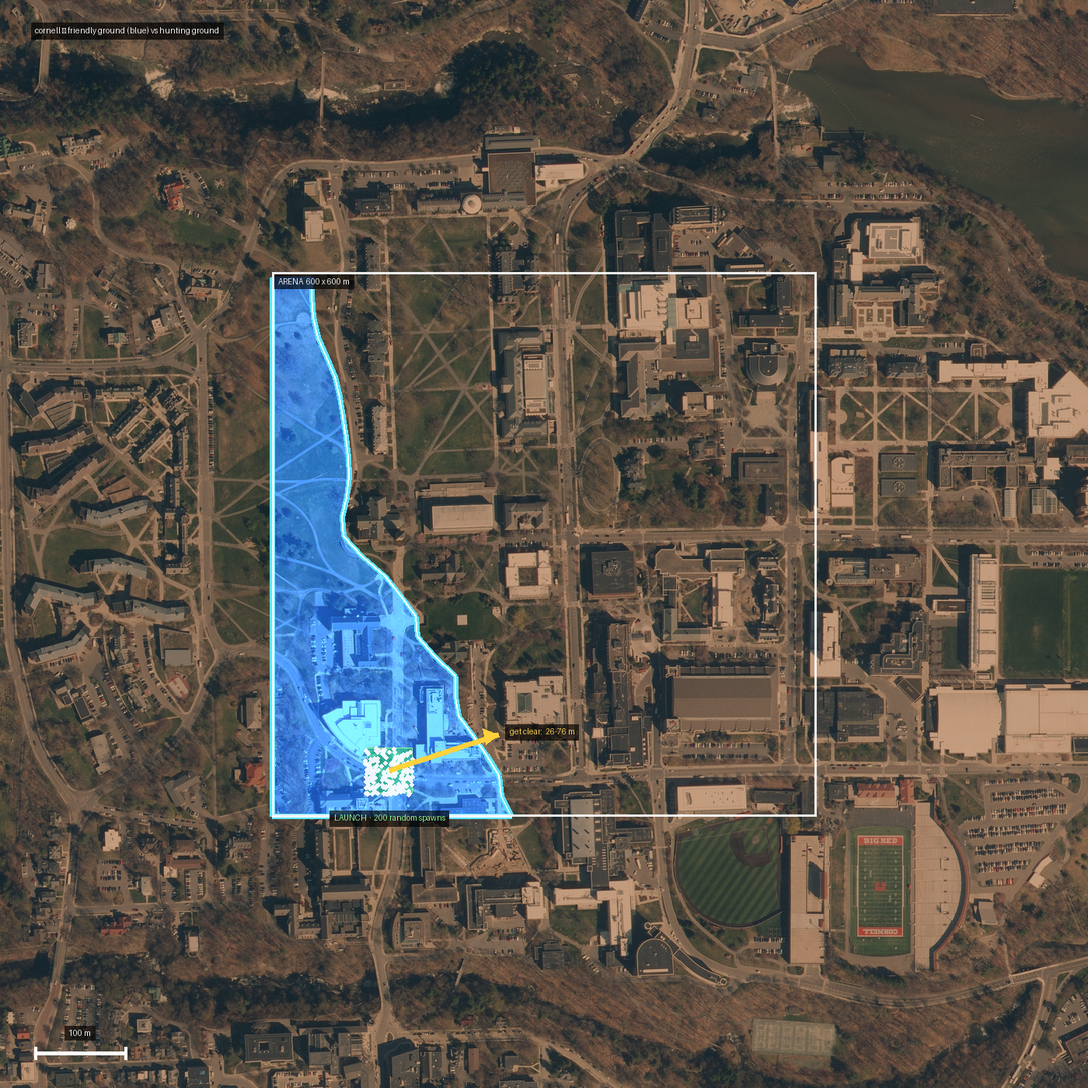
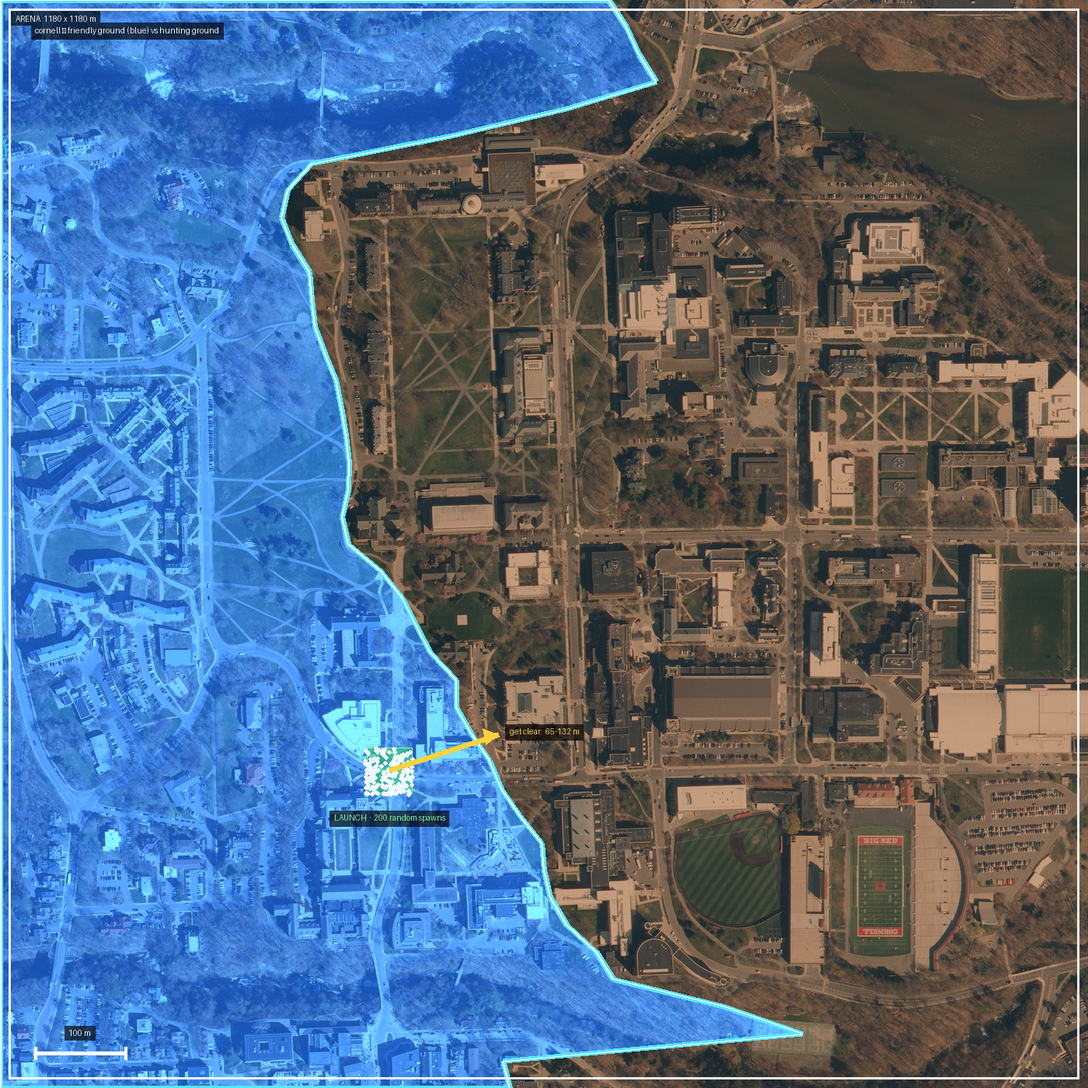
Play the whole site: the slope bisects it
The arena was a 600 m box inherited from the search task while the Cornell
raster is 1200 m square, so three quarters of the world was unreachable. The
arena is now the terrain's own edge (arena_half 590 + a 10 m margin lands the
hard limit exactly on the raster boundary), and the friendly/hunting split is
the slope contour traced across every row of the site rather than clipped to
the old box: 42% friendly below the break, 58% campus above it, and the line
runs east along both gorge floors because those really are below the slope.

Four times the area needs the rest to follow: 12 forklifts instead of 6 keeps
the density, and a 90 s episode is ~1200 m of path, enough to cross the site.
Clearing friendly ground from the pad is now 65 to 132 m rather than 26 to 76.

diff --git a/vesper/lab/chase_task.py b/vesper/lab/chase_task.py
@@ -47,8 +47,11 @@ from vesper.lab.frames import PROPRIO_DIM, camera_axis, proprio, tilt_from_quat,
 
 @dataclass
 class ChaseCfg:
-    n_targets: int = 6                 # forklifts on the site, shared by every drone
-    arena_half: float = 300.0          # square about the world centre the episode lives in
+    n_targets: int = 12                # forklifts on the site, shared by every drone
+    # The whole site, not a box inside it: the Cornell raster is 1200 m square,
+    # and with oob_margin the hard limit lands exactly on its edge, so the drone
+    # is bounded by the terrain rather than by an invisible wall inside it.
+    arena_half: float = 590.0
 
     # --- drone spawn ---
     spawn_alt_min: float = 25.0        # above local ground (m)
@@ -69,7 +72,7 @@ class ChaseCfg:
     clear_min: float = 6.0             # clearance below which the shaping penalty starts (m)
     tilt_limit: float = 1.4
     ceiling: float = 150.0
-    oob_margin: float = 40.0
+    oob_margin: float = 10.0
 
     # --- reward ---
     # Ordering, best to worst: touch early > touch late > see one > fly around

diff --git a/scripts/train_chase.py b/scripts/train_chase.py
@@ -26,13 +26,13 @@ parser = argparse.ArgumentParser()
 parser.add_argument("--num_envs", type=int, default=128)
 parser.add_argument("--iters", type=int, default=3000)
 parser.add_argument("--horizon", type=int, default=32)
-parser.add_argument("--targets", type=int, default=6)
-parser.add_argument("--arena", type=float, default=300.0)
+parser.add_argument("--targets", type=int, default=12)
+parser.add_argument("--arena", type=float, default=590.0)
 parser.add_argument("--arena_start", type=float, default=None,
                     help="curriculum: begin here and grow to --arena over --arena_iters, so the "
                          "first touches are found in a small box")
 parser.add_argument("--arena_iters", type=int, default=800)
-parser.add_argument("--episode_s", type=float, default=60.0)
+parser.add_argument("--episode_s", type=float, default=90.0)
 parser.add_argument("--res", type=int, default=96)
 parser.add_argument("--seed", type=int, default=0)
 parser.add_argument("--lr", type=float, default=3e-4)

diff --git a/vesper/lab/chase_env.py b/vesper/lab/chase_env.py
@@ -57,7 +57,7 @@ CRASH_FORCE_N = 2.0          # contact force with anything else that counts as a
 
 @configclass
 class ChaseEnvCfg(VesperQuadEnvCfg):
-    episode_length_s = 60.0
+    episode_length_s = 90.0          # ~1200 m of path: enough to cross the site
     decimation = 4                                  # 25 Hz guidance over a 100 Hz inner loop
     sim: SimulationCfg = SimulationCfg(dt=1 / 100, render_interval=4)
     action_space = 3                                # body-frame forward / left / up
@@ -68,7 +68,7 @@ class ChaseEnvCfg(VesperQuadEnvCfg):
     world_map: str = CORNELL_MAP
     zones: str | None = None                        # zones.json; default: beside the map or <site>_zones.json
     vehicle_model: str | None = None
-    n_targets: int = 6
+    n_targets: int = 12
     vehicle_cycle_s: float = 180.0                  # forklifts are re-placed this often
     accel_limit: float = 11.0
     yaw_follow_tau_s: float = 0.6

diff --git a/scripts/fly_chase.py b/scripts/fly_chase.py
@@ -25,9 +25,9 @@ from isaaclab.app import AppLauncher
 parser = argparse.ArgumentParser()
 parser.add_argument("--policy", required=True)
 parser.add_argument("--num_envs", type=int, default=4)
-parser.add_argument("--seconds", type=float, default=60.0)
-parser.add_argument("--targets", type=int, default=6)
-parser.add_argument("--arena", type=float, default=300.0)
+parser.add_argument("--seconds", type=float, default=90.0)
+parser.add_argument("--targets", type=int, default=12)
+parser.add_argument("--arena", type=float, default=590.0)
 parser.add_argument("--hfov", type=float, default=75.0, help="chase camera lens")
 parser.add_argument("--seed", type=int, default=7)
 parser.add_argument("--stochastic", action="store_true")

diff --git a/scripts/check_chase.py b/scripts/check_chase.py
@@ -20,8 +20,8 @@ from isaaclab.app import AppLauncher
 parser = argparse.ArgumentParser()
 parser.add_argument("--num_envs", type=int, default=16)
 parser.add_argument("--steps", type=int, default=200)
-parser.add_argument("--targets", type=int, default=6)
-parser.add_argument("--arena", type=float, default=300.0)
+parser.add_argument("--targets", type=int, default=12)
+parser.add_argument("--arena", type=float, default=590.0)
 parser.add_argument("--vehicle", default=None)
 parser.add_argument("--camera", action="store_true", help="render the body-fixed camera (implies --enable_cameras)")
 parser.add_argument("--res", type=int, default=96)

diff --git a/scripts/plot_zones.py b/scripts/plot_zones.py
@@ -24,7 +24,7 @@ ap.add_argument("--map", default=str(ROOT / "assets" / "cornell" / "cornell_map.
 ap.add_argument("--zones", default=None, help="default: beside the map, else <site>_zones.json")
 ap.add_argument("--ground", default=None, help="default: ground.png beside the map")
 ap.add_argument("--out", default=str(ROOT / "docs" / "cornell_zones.png"))
-ap.add_argument("--arena", type=float, default=300.0)
+ap.add_argument("--arena", type=float, default=590.0)
 ap.add_argument("--px", type=int, default=1400)
 ap.add_argument("--spawns", type=int, default=200)
 a = ap.parse_args()

diff --git a/STEPS.md b/STEPS.md
@@ -196,9 +196,12 @@ nothing about it ends the episode. A forklift on friendly ground is protected:
 no sighting bonus, no touch reward, touching it ends nothing. Both polygons are
 drawn on the AO map.
 
-On Cornell the friendly zone is everything below the slope break, traced along
-the −12 m contour, and the pad is a 50 m square at (−170, −250) — 28 to 52 m of
-flying to clear friendly ground.
+On Cornell the slope bisects the site. Everything below the break is friendly
+(42% of the 1200 m square, traced along the −12 m contour, so the line follows
+Libe Slope and runs east along both gorge floors); the campus above it is the
+hunting ground where the forklifts drive. The whole raster is in play — the
+arena is the terrain's own edge, not a box inside it — and the pad is a 50 m
+square at (−170, −250), 65 to 132 m of flying to clear friendly ground.
 
 The actor has no map, so on a general site it could not perceive that boundary.
 On one fixed site it can learn it from landmarks, which is what this is; if that
